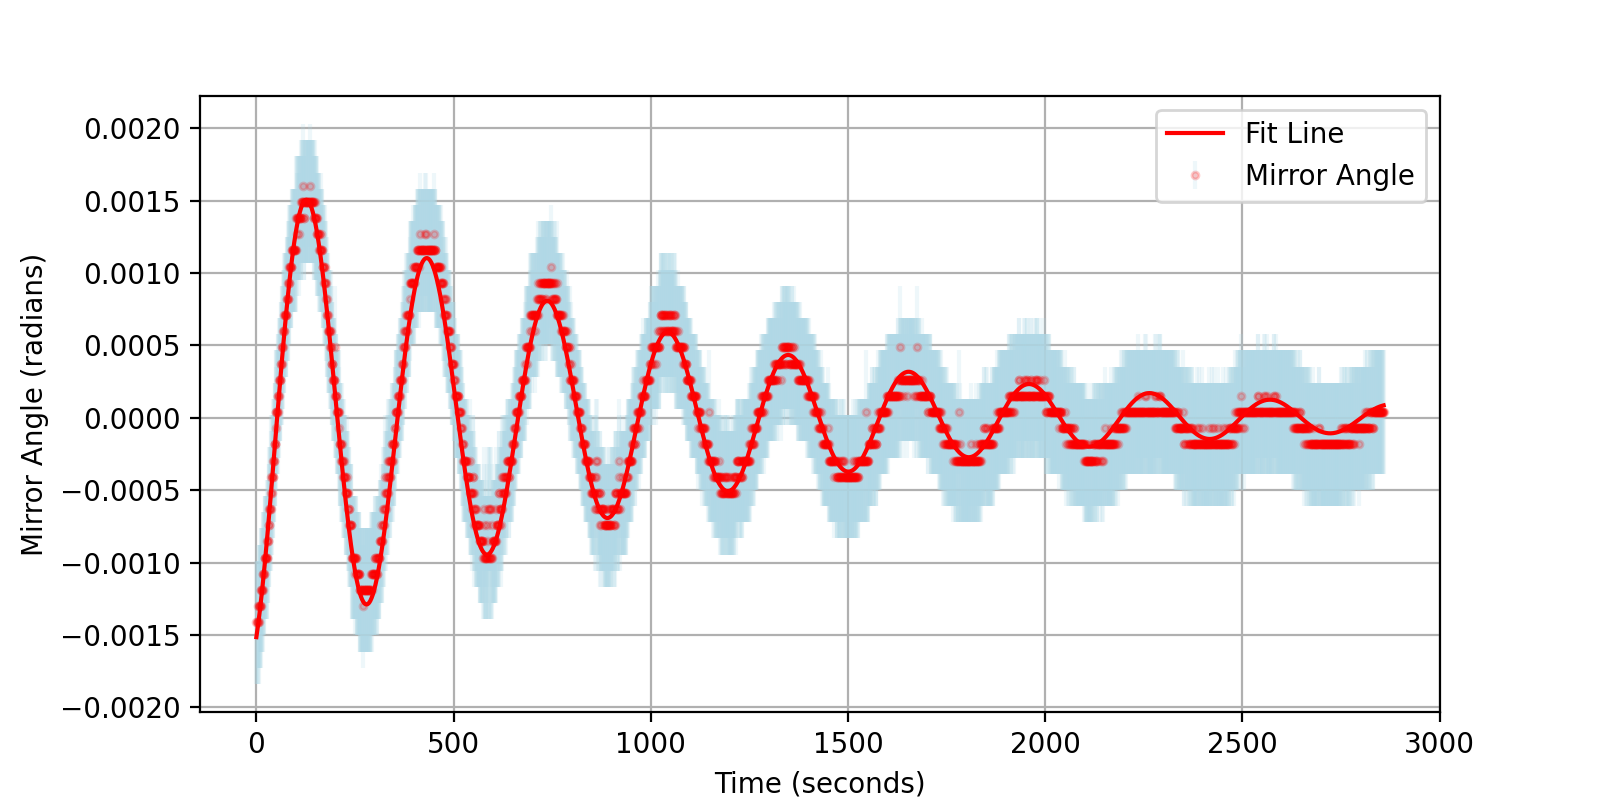
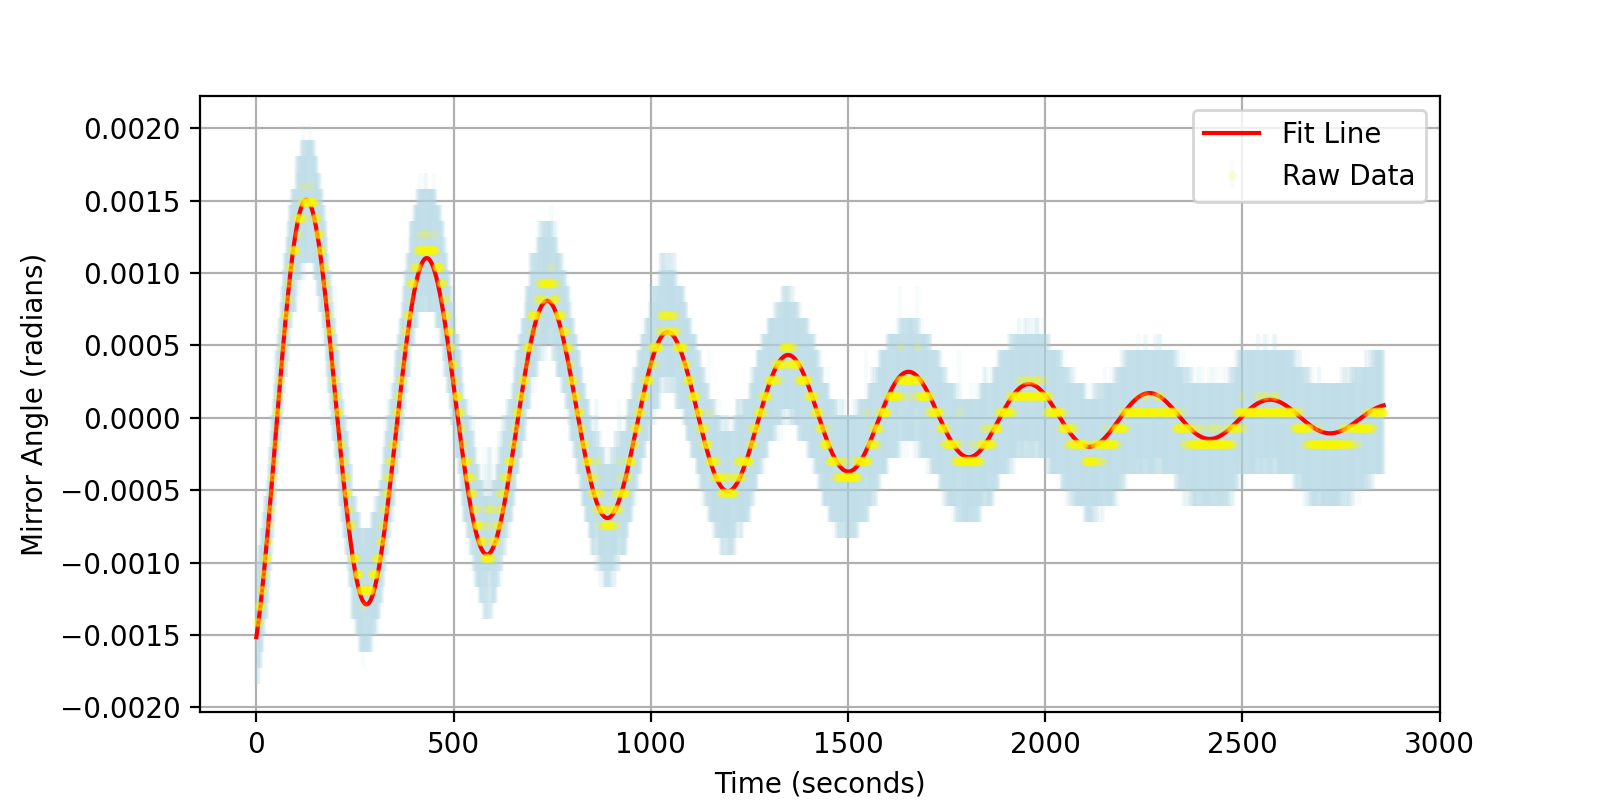
Cavendish Final

diff --git a/Cavendish Experiment/Set2/ClockWise_1.py b/Cavendish Experiment/Set2/ClockWise_1.py
@@ -80,8 +80,8 @@ if __name__ == "__main__":
     t_numeric = np.array([(t - time[0]).total_seconds() for t in time])
     fig, ax = plt.subplots(figsize=(8, 4))
     # ax.scatter(time, position, marker=".", s=5, label="Raw Data")
-    ax.errorbar(t_numeric, position, yerr=position_uncert, marker=".", markersize=5, color='red', ecolor="lightblue",
-                alpha=0.2, linestyle="None", label="Mirror Angle")
+    ax.errorbar(t_numeric, position, yerr=position_uncert, marker=".", markersize=5, color='yellow', ecolor="lightblue",
+                alpha=0.1, linestyle="None", label="Raw Data")
 
     # """Fitting a damped cosine"""
 
@@ -145,8 +145,8 @@ if __name__ == "__main__":
     # Updated initial guesses
     p0 = [amplitude_guess, tau_guess, T_guess, phase_guess, base_guess]
     fig, ax = plt.subplots(figsize=(8, 4))
-    ax.errorbar(t_numeric, thetas, yerr=thetas_uncert, marker=".", markersize=5, color='red', ecolor="lightblue",
-                alpha=0.2, linestyle="None", label="Mirror Angle")
+    ax.errorbar(t_numeric, thetas, yerr=thetas_uncert, marker=".", markersize=5, color='yellow', ecolor="lightblue",
+                alpha=0.1, linestyle="None", label="Raw Data")
     popt, pcov = curve_fit(damped_cosine, xdata=t_numeric, p0=p0, ydata=thetas, maxfev=10000)
     thetas_fit = np.array(damped_cosine(t_numeric, *popt))
     ax.plot(t_numeric, thetas_fit, color="red", label="Fit Line")
